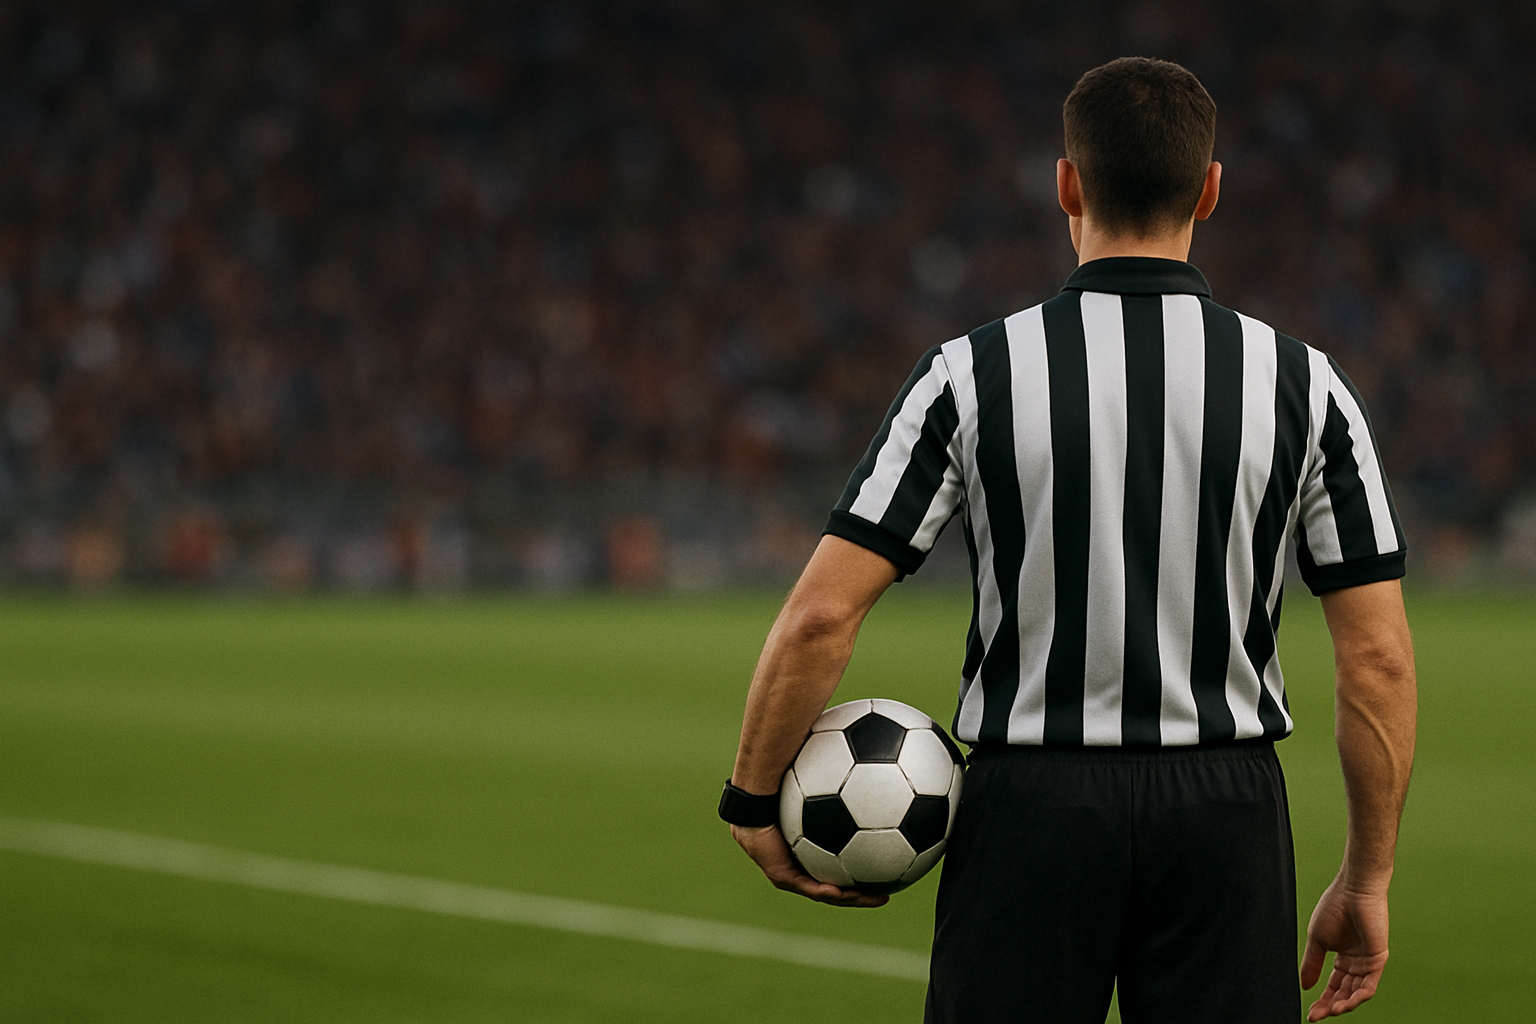
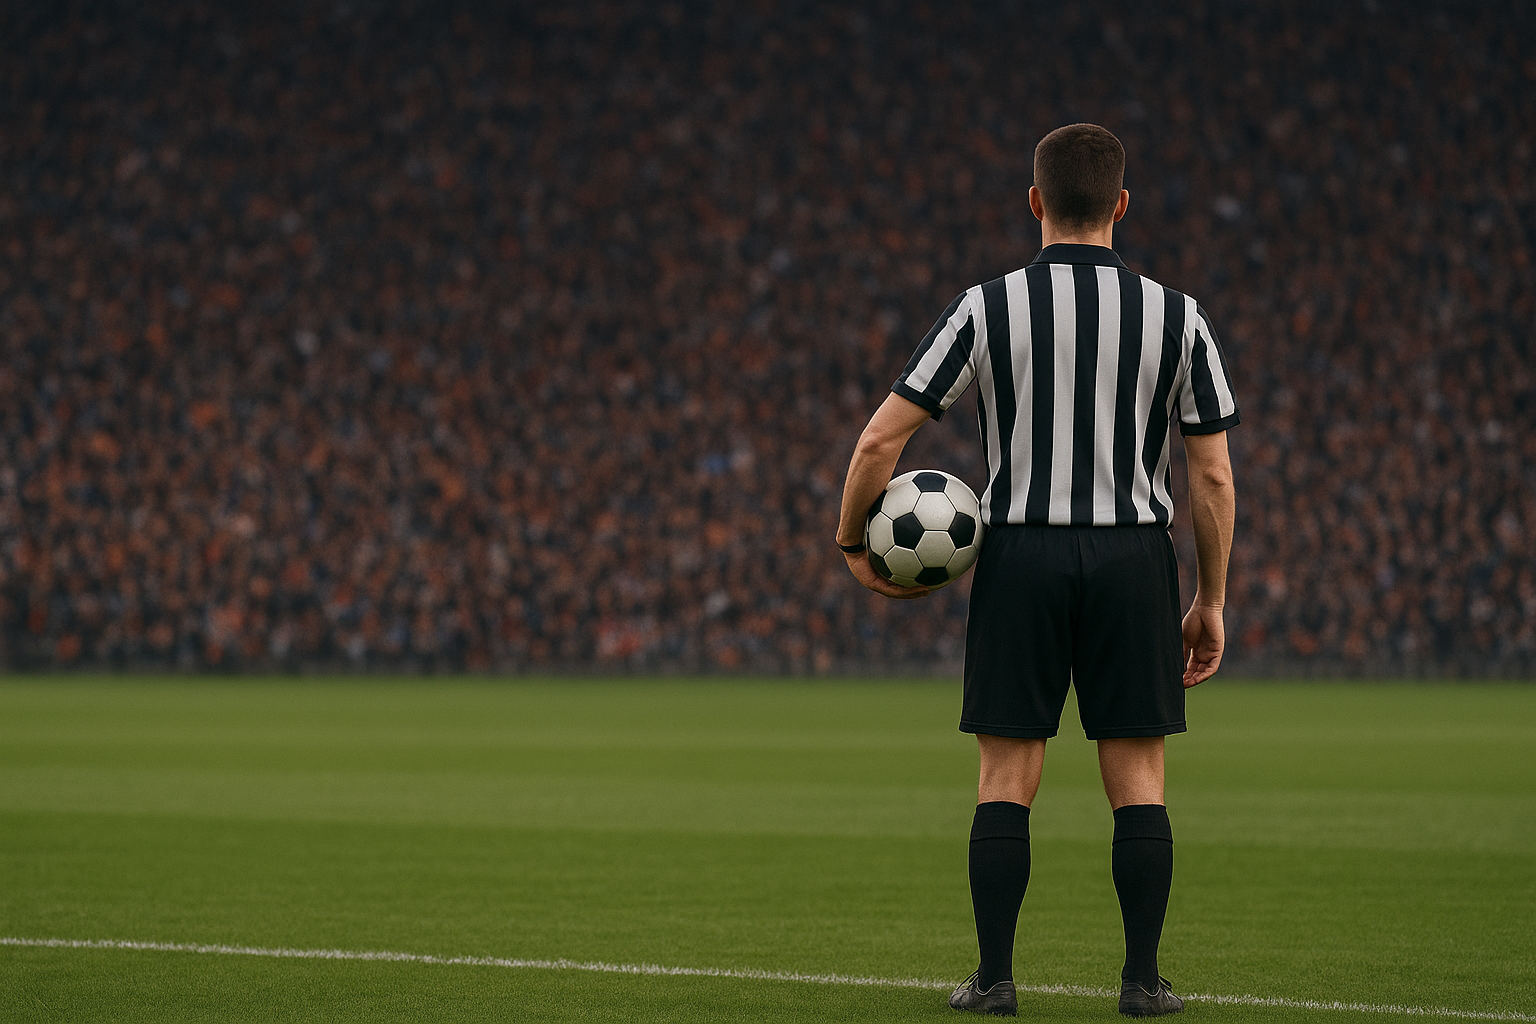
update whyus-section

diff --git a/src/components/Courses.tsx b/src/components/Courses.tsx
@@ -2,77 +2,70 @@ import Image from "next/image";
 
 export default function Courses() {
   return (
-    <section className="py-32 px-6 bg-white text-gray-900 text-center">
-      <h2 className="text-4xl font-bold mb-20">Nuestros programas</h2>
-
-      <div className="grid gap-10 sm:grid-cols-2 lg:grid-cols-3 max-w-7xl mx-auto">
-        <div className="bg-[#F3F9FC] rounded-lg shadow-md overflow-hidden">
+    <section className="my-20 max-w-7xl mx-auto px-6 text-gray-900 text-center">
+      <h4 className="text-lg font-light mb-3">
+        <span className="text-blue-500 font-medium mr-2">/ /</span> Nuestros
+        Programas
+      </h4>
+      <h3 className="text-3xl font-bold md:text-4xln text-[#243E63]">
+        Transformative Painting Services Tailored to Your Needs
+      </h3>
+      <div className="mt-30 flex flex-col md:flex-row gap-30">
+        <div className="border border-gray-300 w-full rounded-xl">
           <Image
             src="/course-img1.jpg"
-            alt="Curso inicial de arbitraje"
+            alt="aboutus-image"
             width={500}
             height={500}
-            className="w-full h-48 object-cover"
+            className="mx-auto -mt-10 w-[85%] rounded-xl"
           />
-          <div className="p-6">
-            <h3 className="text-xl font-semibold mb-2">
-              Curso inicial de arbitraje
-            </h3>
-            <p className="text-sm text-gray-700">
-              Ideal para quienes dan sus primeros pasos en el arbitraje. Incluye
-              fundamentos y práctica.
+          <div className="space-y-6 p-10">
+            <h4 className="mt-2 text-[#243E63] font-bold">
+              Formación Inicial de Árbitros Profesionales
+            </h4>
+            <p className="text-sm text-gray-500 font-semibold">
+              Programa inicial para aprender reglas, fundamentos del arbitraje y
+              práctica en cancha con supervisión.
             </p>
           </div>
         </div>
-
-        {/* <div className="bg-[#F3F9FC] rounded-lg shadow-md overflow-hidden">
-      <img src="/course-img4.jpg" alt="Curso avanzado de arbitraje" className="w-full h-48 object-cover" />
-      <div className="p-6">
-        <h3 className="text-xl font-semibold mb-2">Curso avanzado</h3>
-        <p className="text-sm text-gray-700">
-          Perfeccionamiento técnico, toma de decisiones y análisis de jugadas en contexto profesional.
-        </p>
-      </div>
-    </div> */}
-
-        <div className="bg-[#F3F9FC] rounded-lg shadow-md overflow-hidden">
+        <div className="border border-gray-300 w-full rounded-xl">
           <Image
             src="/course-img2.jpg"
+            alt="aboutus-image"
             width={500}
             height={500}
-            alt="Seminarios de VAR y reglamento FIFA"
-            className="w-full h-48 object-cover"
+            className="mx-auto -mt-10 w-[85%] rounded-xl"
           />
-          <div className="p-6">
-            <h3 className="text-xl font-semibold mb-2">
-              Seminarios de VAR y reglamento FIFA
-            </h3>
-            <p className="text-sm text-gray-700">
-              Actualizate con las últimas reglas y tecnología usada en el
-              arbitraje internacional.
+          <div className="space-y-6 p-10">
+            <h4 className="mt-2 text-[#243E63] font-bold">
+              Arbitraje Avanzado y Profesional
+            </h4>
+            <p className="text-sm text-gray-500 font-semibold">
+              Entrenamiento intensivo para torneos, reforzando técnica, liderazgo y manejo de presión.
             </p>
           </div>
         </div>
-
-        <div className="bg-[#F3F9FC] rounded-lg shadow-md overflow-hidden sm:col-span-2 lg:col-span-1">
+        <div className="border border-gray-300 w-full rounded-xl">
           <Image
             src="/course-img3.jpg"
+            alt="aboutus-image"
             width={500}
             height={500}
-            alt="Charlas con árbitros profesionales"
-            className="w-full h-48 object-cover"
+            className="mx-auto -mt-10 w-[85%] rounded-xl"
           />
-          <div className="p-6">
-            <h3 className="text-xl font-semibold mb-2">
-              Charlas con árbitros profesionales
-            </h3>
-            <p className="text-sm text-gray-700">
-              Conocé la experiencia real de quienes ya ejercen. Preguntas,
-              consejos y motivación.
+          <div className="space-y-6 p-10">
+            <h4 className="mt-2 text-[#243E63] font-bold">
+              Capacitación en VAR y Tecnologías Modernas
+            </h4>
+            <p className="text-sm text-gray-500 font-semibold">
+              Programa que te capacita en VAR, comunicación tecnológica y
+              análisis de jugadas según estándares FIFA.
             </p>
           </div>
         </div>
       </div>
+      <button className="mt-12 bg-blue-500 text-white w-full py-4 font-semibold rounded cursor-pointer hover:bg-blue-600 transition-colors duration-300">Comienza tu formación hoy</button>
     </section>
   );
 }

diff --git a/src/components/Aboutus.tsx b/src/components/Aboutus.tsx
@@ -1,4 +1,4 @@
-'use client';
+"use client";
 import Whistle from "./icons/Whistle";
 import Certificate from "./icons/Certificate";
 import Image from "next/image";
@@ -9,12 +9,15 @@ import { useEffect } from "react";
 
 export default function Abouts() {
   useEffect(() => {
-    AOS.init()
+    AOS.init();
   }, []);
   return (
     <section className="max-w-7xl mx-auto my-30 flex px-6">
       <div className="flex flex-col md:flex-row justify-between w-full md:gap-10 lg:gap-0">
-        <div data-aos="fade-right" className="relative w-full mb-[75%] sm:mb-[50%] md:mb-0 h-fit">
+        <div
+          data-aos="fade-right"
+          className="relative w-full mb-[75%] sm:mb-[50%] md:mb-0 h-fit"
+        >
           {/* Imagen principal */}
           <Image
             src="/aboutimg1.png"
@@ -37,17 +40,19 @@ export default function Abouts() {
         </div>
 
         <div data-aos="fade-left" className="md:max-w-[50%]">
-          <h4 className="text-lg font-extralight mb-3">
+          <h4 className="text-lg font-light mb-3">
             <span className="text-blue-500 font-medium mr-2">/ /</span> Acerca
             de Nosotros
           </h4>
-          <h3 className="text-3xl font-bold md:text-4xl">
+          <h3 className="text-3xl font-bold md:text-4xln text-[#243E63]">
             Descubre Nuestra Pasión por la Formación Arbitral
-
           </h3>
           <p className="my-5 font-light">
-            En la Escuela de Arbitraje, creemos que dirigir un partido es mucho más que aplicar reglas: es liderazgo, respeto y compromiso con el juego. Con años de experiencia y un equipo de instructores certificados, nos dedicamos a formar árbitros preparados para enfrentar cualquier desafío dentro y fuera de la cancha.
-
+            En la Escuela de Arbitraje, creemos que dirigir un partido es mucho
+            más que aplicar reglas: es liderazgo, respeto y compromiso con el
+            juego. Con años de experiencia y un equipo de instructores
+            certificados, nos dedicamos a formar árbitros preparados para
+            enfrentar cualquier desafío dentro y fuera de la cancha.
           </p>
           <div className="flex flex-col gap-5">
             <div className="pl-0 p-3 flex items-center gap-4">
@@ -73,7 +78,7 @@ export default function Abouts() {
               <span className="">Oportunidades en ligas y torneos</span>
             </div>
           </div>
-          <button className="bg-blue-500 text-white font-bold py-3 px-6 rounded mt-10 w-full md:w-fit">
+          <button className="bg-blue-500 text-white font-semibold py-3 rounded mt-10 w-full md:w-fit cursor-pointer hover:bg-blue-600 transition duration-300">
             Inscribirme
           </button>
         </div>

diff --git a/src/components/WhyChooseUs.tsx b/src/components/WhyChooseUs.tsx
@@ -15,7 +15,7 @@ export default function WhyChooseUs() {
         className="rounded-xl object-cover object-center"
         width={600}
         height={600}
-        src="/aboutus-img.jpg"
+        src="/whyusimg.png"
         alt="advantages-image"
       />
       <div data-aos="fade-up">
@@ -27,10 +27,13 @@ export default function WhyChooseUs() {
             </span>
           </h2>
           <p className="text-gray-500 font-semibold text-sm max-w-xl">
-            Lorem ipsum dolor sit amet, consectetur adipiscing elit, sed do
-            eiusmod tempor incididunt ut labore et dolore magna aliqua. Ut enim
-            ad minim veniam, quis nostrud exercitation ullamco laboris nisi ut
-            aliquip ex ea commodo consequat.
+            Nos destacamos por un método de enseñanza integral que combina
+            teoría, práctica en cancha y desarrollo personal, garantizando que
+            cada árbitro esté preparado para dirigir con seguridad y confianza
+            en cualquier nivel competitivo.
+          </p>
+          <p className="text-gray-500 font-semibold text-sm max-w-xl">
+            Nuestra misión es impulsar tu crecimiento en el arbitraje brindándote capacitación de calidad, instructores certificados y una red de oportunidades que abrirá las puertas a tu futuro deportivo.
           </p>
         </div>
         <div className="mt-10 flex flex-col md:flex-row gap-8 text-center">

diff --git a/src/components/Hero.tsx b/src/components/Hero.tsx
@@ -10,12 +10,12 @@ export default function Hero() {
     <section className="banner relative px-6">
       {/* Nav móvil */}
       <header
-        className={`absolute top-0 left-0 pt-30 px-8 z-10 bg-slate-900 text-white w-full h-[60vh]
+        className={`absolute top-0 left-0 pt-30 px-8 z-10 bg-slate-900 text-white w-full h-[75vh]
         transform transition-transform duration-500 ease-in-out rounded-b-4xl
         ${isOpen ? "translate-y-0" : "-translate-y-full"}`}
       >
-        <nav>
-          <ul className="flex flex-col gap-6 font-bold text-xl">
+        <nav className="mt-10 ">
+          <ul className="flex flex-col gap-8 font-bold text-xl">
             <li className="w-fit border-b-3 border-b-transparent active:border-blue-500 transition-all duration-300">
               Inicio
             </li>
@@ -117,7 +117,7 @@ export default function Hero() {
         </p>
         <a
           href="#formulario"
-          className="mt-10 inline-block px-8 py-4 bg-blue-400 font-semibold text-lg rounded-lg shadow hover:bg-blue-500 transition duration-300 cursor-pointer"
+          className="mt-10 inline-block px-8 py-4 bg-blue-500 font-semibold text-lg rounded-lg shadow hover:mt-8 transition-all duration-300 cursor-pointer"
         >
           Inscribite ahora
         </a>

diff --git a/src/components/Form.tsx b/src/components/Form.tsx
@@ -31,7 +31,7 @@ export default function Form() {
         />
         <button
           type="submit"
-          className="w-full p-3 bg-blue-400 text-white font-semibold rounded hover:bg-blue-700"
+          className="w-full p-3 bg-blue-500 text-white font-semibold rounded hover:bg-blue-700"
         >
           Enviar inscripción
         </button>

diff --git a/src/app/globals.css b/src/app/globals.css
@@ -8,7 +8,7 @@
   min-height: 75vh;
   height: auto;
   background-size: cover;
-  background-position: left center;
+  background-position: start;
   background-image: linear-gradient(0deg,
         rgba(0, 0, 0, 0),
         rgba(0, 0, 0, 0.8)), url("/heroimg3.png");
